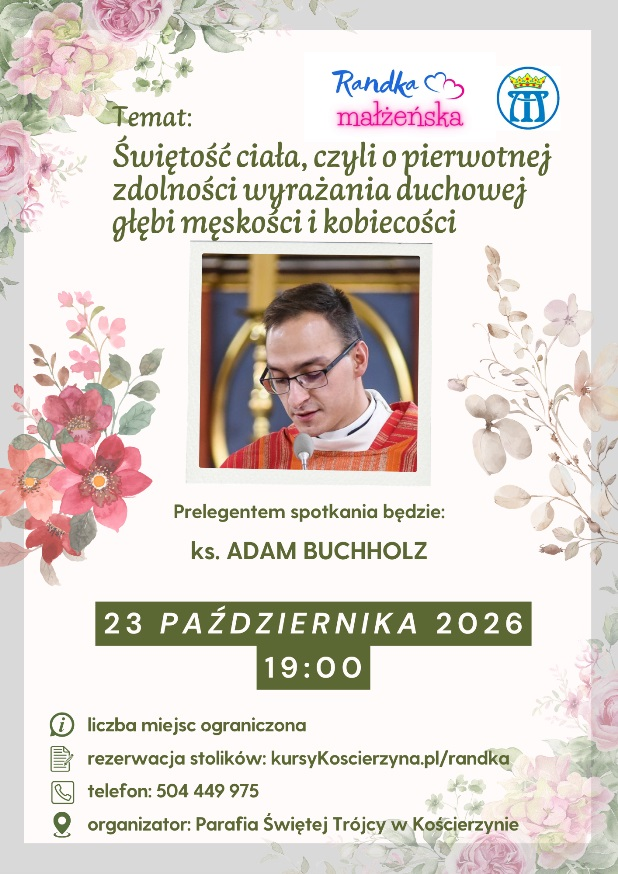
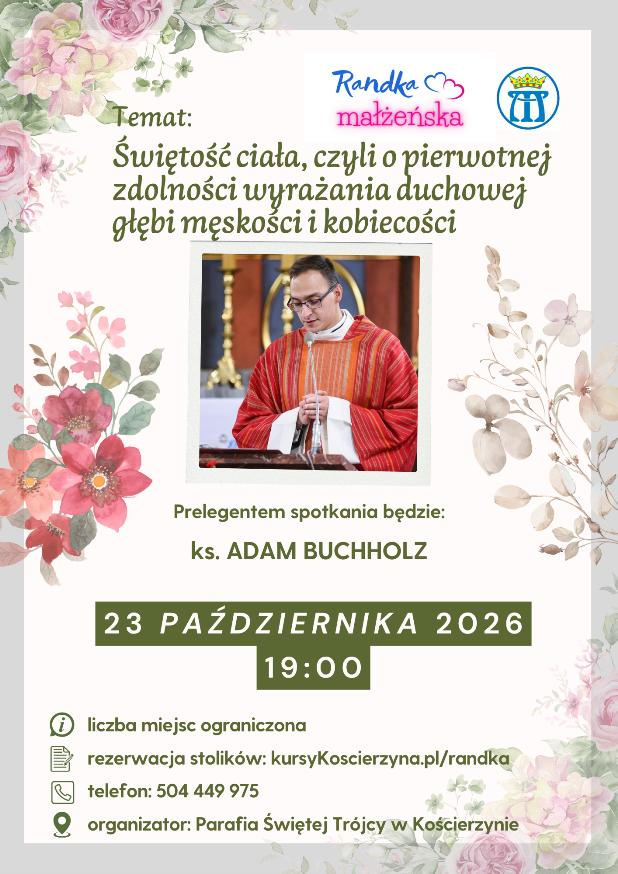
zmiana plakatu + twarde spacje

Changed region(s): [[0.3074, 0.278, 0.6764, 0.5561], [0.8301, 0.0618, 0.8916, 0.1236], [0.6149, 0.0927, 0.6456, 0.1236]]

diff --git a/randka/index.html b/randka/index.html
@@ -81,7 +81,7 @@
 					<!-- home content -->
 					<div class="col-md-10 col-md-offset-1">
 						<div class="home-content">
-							<h1 class="main-color">Temat: Świętość ciała, czyli o pierwotnej zdolności wyrażania duchowej głębi męskości i kobiecości</h1>
+							<h1 class="main-color">Temat: Świętość ciała, czyli o&nbsp;pierwotnej zdolności wyrażania duchowej głębi męskości i&nbsp;kobiecości</h1>
 							<h3 class="white-text">23 października 2026</br>godz. 19:00-21:00</h3>
 							<a href="#meeting"><button class="white-btn">Więcej informacji</button></a>
 							<a href="https://forms.gle/AWDyzXYwFe9QzFJbA"><button class="main-btn">Rezerwuję stolik</button></a>
